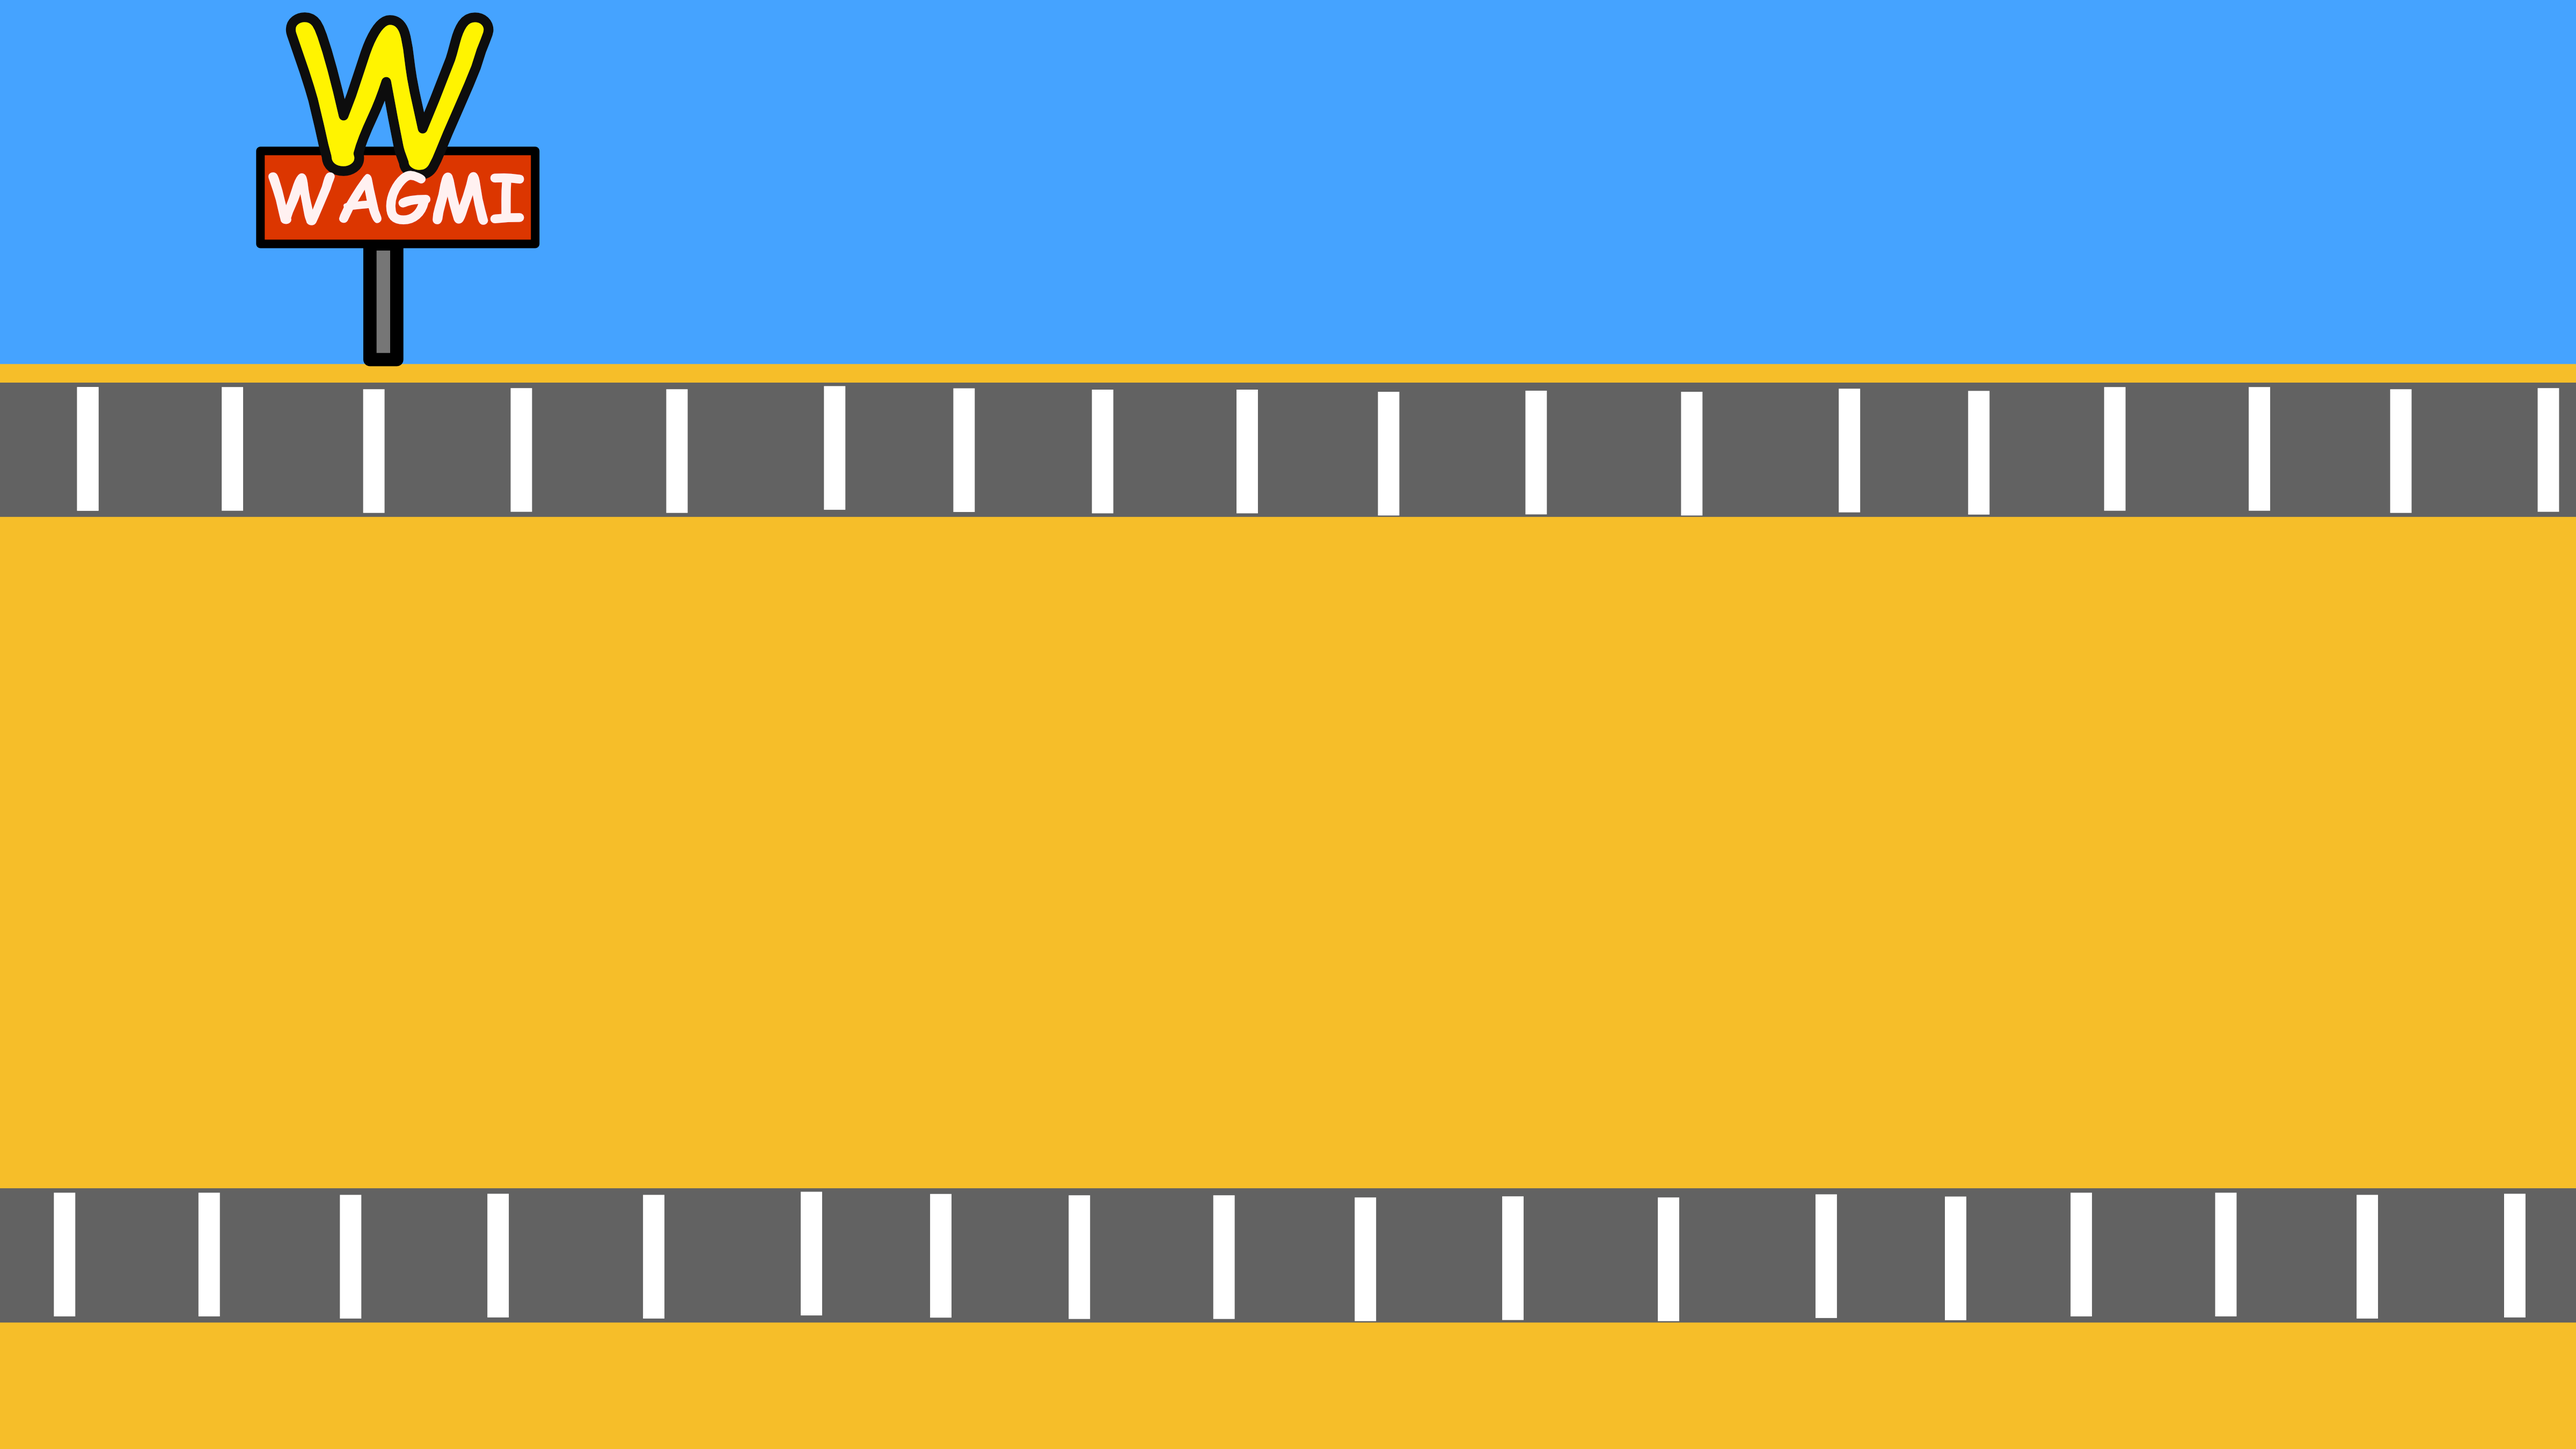
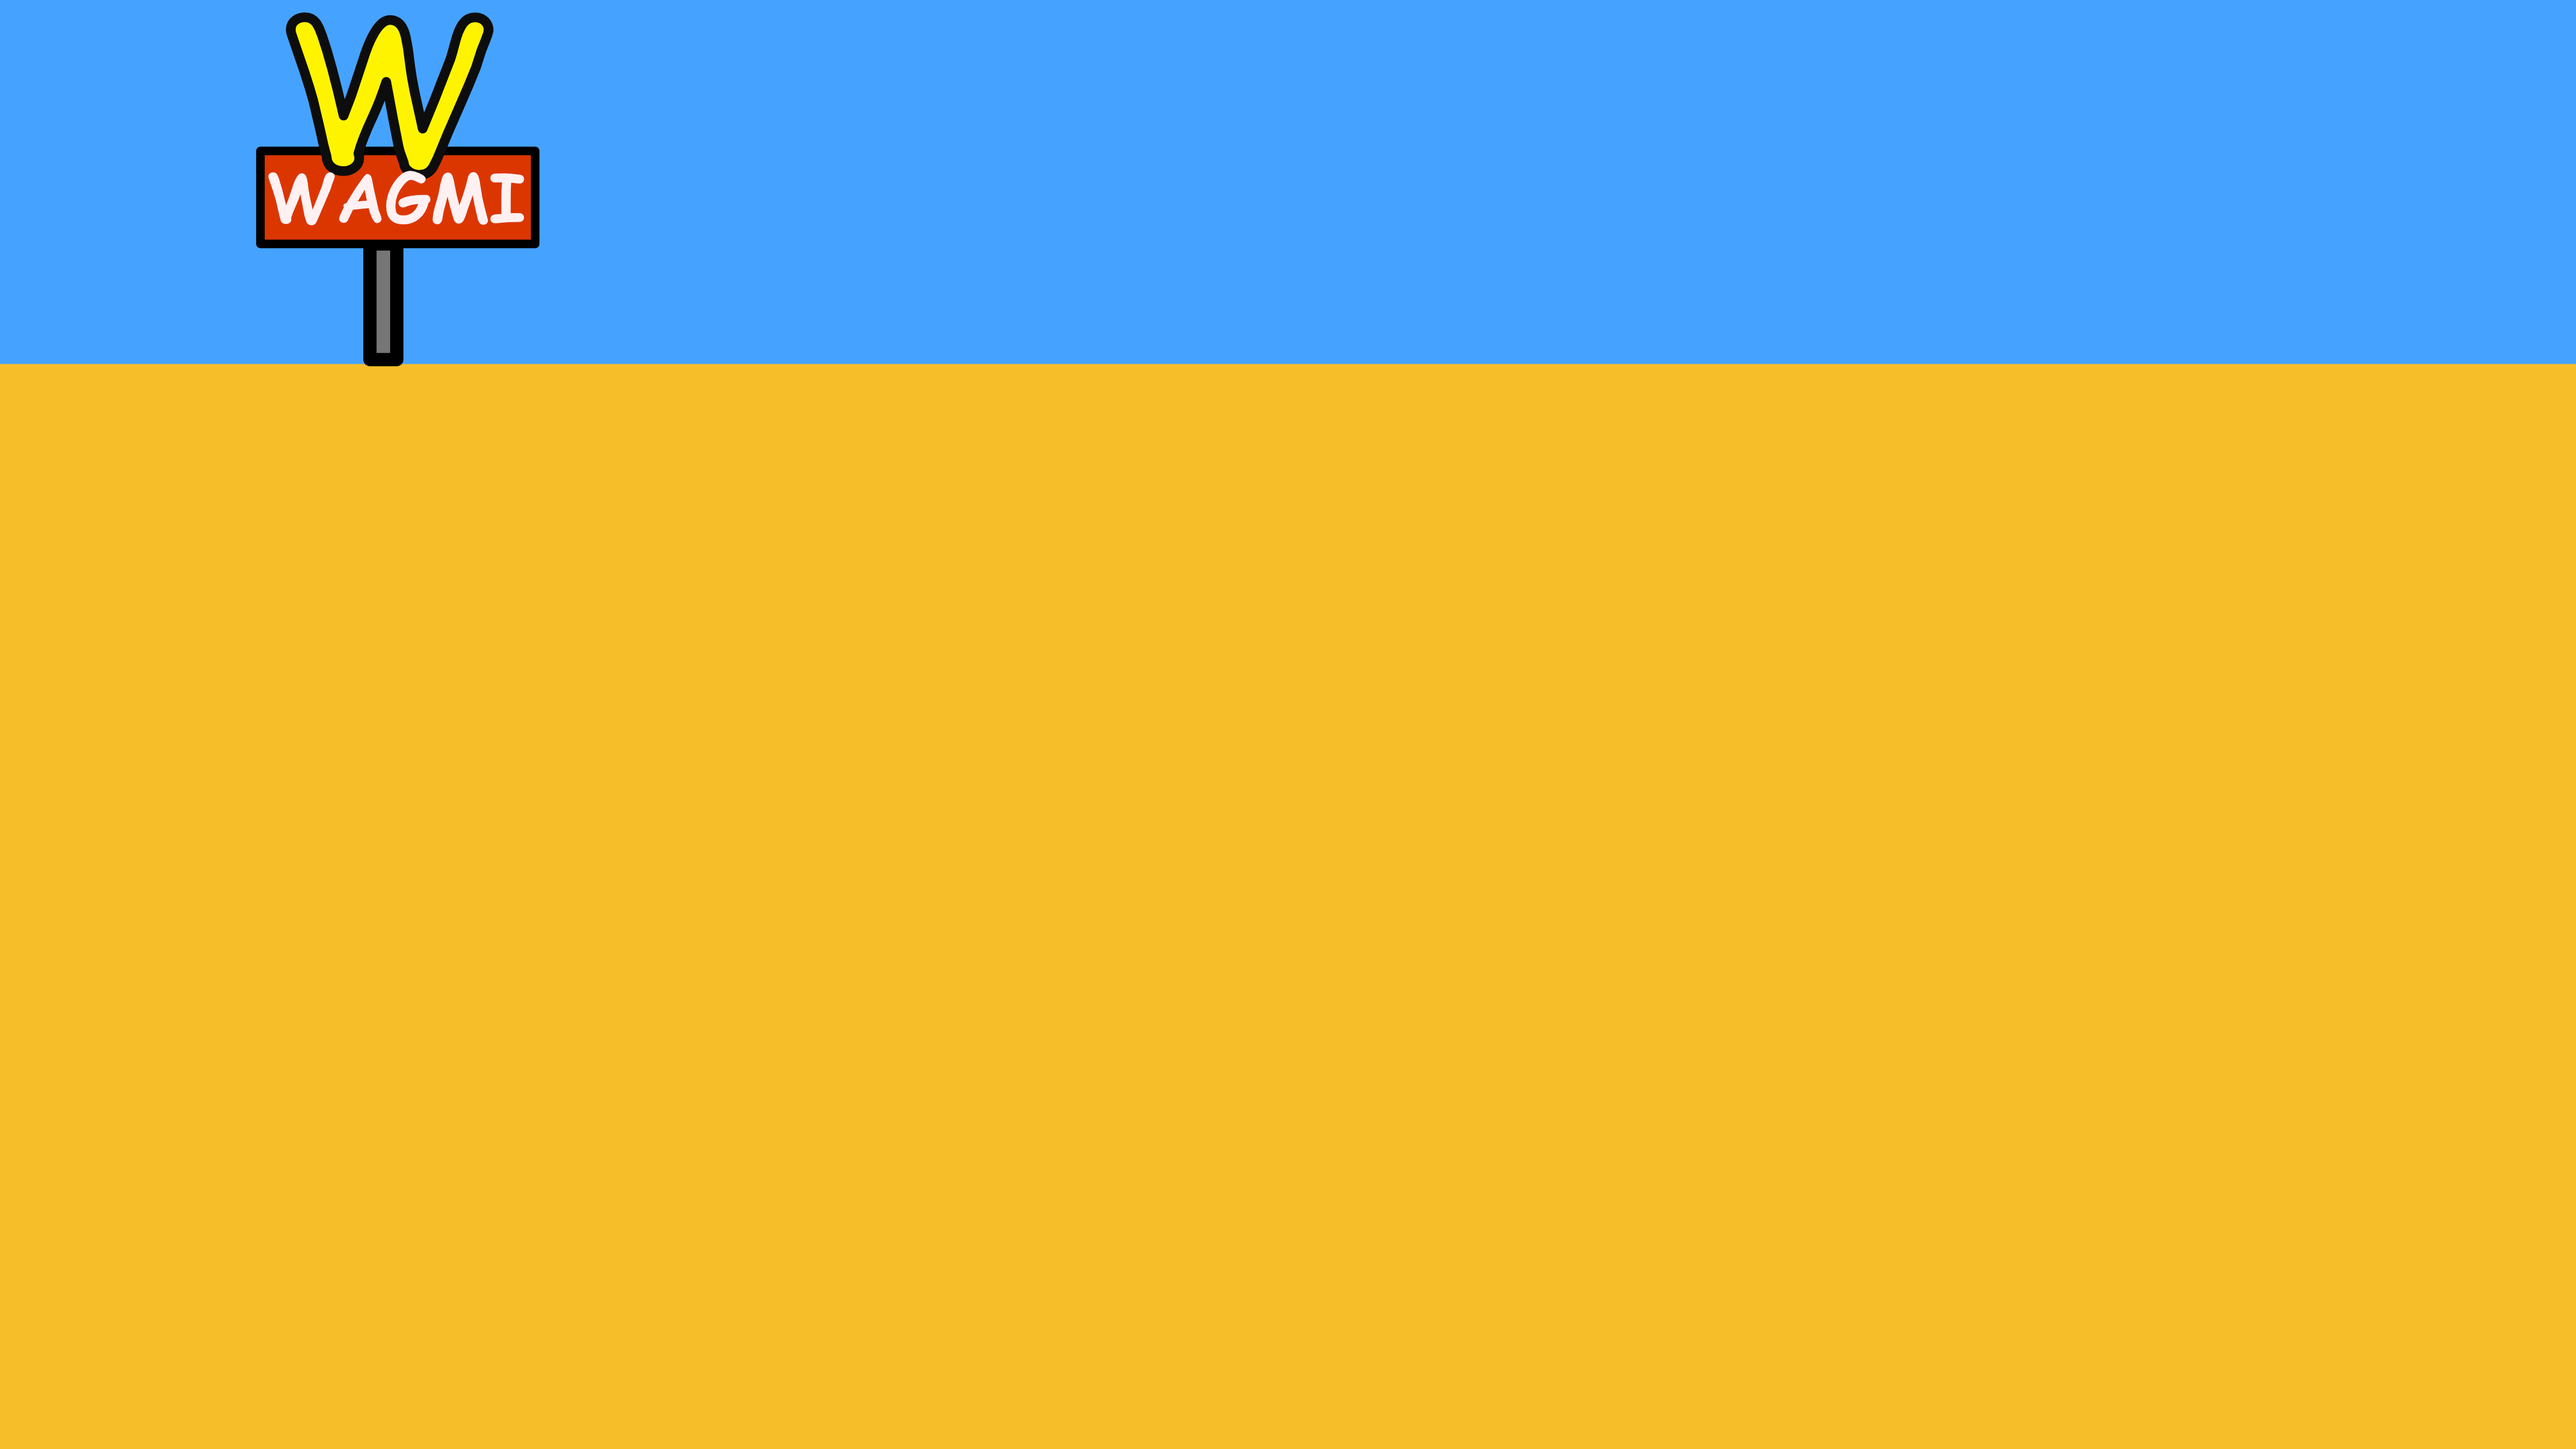
fixed error

Changed region(s): [[0.0, 0.8089, 1.0, 0.9333], [0.0, 0.2489, 1.0, 0.3733]]

diff --git a/game/scenes/game-scene.ts b/game/scenes/game-scene.ts
@@ -1,9 +1,9 @@
 import {
-  LEFT_CHEVRON, BG, CLICK, LOWER_BELT, TRASH
+  LEFT_CHEVRON, BG, CLICK, LOWER_BELT, TRASH, DRINK, FRYER, PREP
 } from 'game/assets';
 import { AavegotchiGameObject } from 'types';
 import { getGameWidth, getGameHeight, getRelative } from '../helpers';
-import { Player, TopFood, BottomFood, Customer, CounterTop } from 'game/objects';
+import { Player, FoodDummy, RedFood, YellowFood, Customer, CounterTop, } from 'game/objects';
 import eventsCenter from 'game/objects/eventsCenter';
 
 const sceneConfig: Phaser.Types.Scenes.SettingsConfig = {
@@ -18,14 +18,17 @@ const sceneConfig: Phaser.Types.Scenes.SettingsConfig = {
 export class GameScene extends Phaser.Scene {
   private player?: Player;
   private selectedGotchi?: AavegotchiGameObject;
-  private topFoodLine?: Phaser.GameObjects.Group
-  private bottomFoodLine?: Phaser.GameObjects.Group
+  //private topFoodLine?: Phaser.GameObjects.Group
+  private FoodDummyLine?: Phaser.GameObjects.Group
+  private RedFoodLine?: Phaser.GameObjects.Group
+  private YellowFoodLine?: Phaser.GameObjects.Group
   private customers?: Phaser.GameObjects.Group
   private counterTops?: Phaser.GameObjects.Group
   private grabKey: Phaser.Input.Keyboard.Key
   private score = 0;
   private scoreText?: Phaser.GameObjects.Text;
   private customerCounterCollider;
+ // private drinkStations?: Phaser.GameObjects.Group
 
   // Sounds
   private back?: Phaser.Sound.BaseSound;
@@ -55,15 +58,23 @@ export class GameScene extends Phaser.Scene {
   // }
 
   private fetchFoodBottom = () => {
-    const foodType = 0
-    const foodSpeed = -1
-
+    const foodType = Math.floor(Math.random() * 3)
+    const foodSpeed = -0.5
     this.loadBeltBottom(foodType, foodSpeed)
   }
 
   private loadBeltBottom = (foodType: number, foodSpeed: number): void => {
-    const food: BottomFood = this.bottomFoodLine?.get()
-    food.activate(foodType, foodSpeed)
+
+    if (foodType === 0) {
+      const food: FoodDummy = this.FoodDummyLine?.get()
+    food.activate(foodSpeed)
+    } else if (foodType === 1) {
+      const food: RedFood = this.RedFoodLine?.get()
+    food.activate(foodSpeed)
+    } else if (foodType === 2) {
+      const food: YellowFood = this.YellowFoodLine?.get()
+    food.activate(foodSpeed)
+    }    
   }
 
   private fetchCustomer = () => {
@@ -90,10 +101,19 @@ export class GameScene extends Phaser.Scene {
     this.trash = this.sound.add(TRASH, { loop: false });
     this.createBackButton();
 
-    const lowerBelt = this.add.sprite(getGameWidth(this) * 0.5 , getGameHeight(this) * 0.82 + getGameHeight(this) * 0.1875, LOWER_BELT).setDisplaySize(getGameWidth(this) *1.5, getGameHeight(this) * 0.4).setVisible(true).setDepth(0.25)
+    const drinkStation = this.add.sprite(getGameWidth(this) * 0.25, getGameHeight(this) * 0.375, DRINK).setDisplaySize(getGameWidth(this) * 0.09375, getGameHeight(this) * 0.25).setVisible(true)
+    this.physics.add.existing(drinkStation, true)
+
+    const fryerStation = this.add.sprite(getGameWidth(this) * 0.5, getGameHeight(this) * 0.375, FRYER).setDisplaySize(getGameWidth(this) * 0.125, getGameHeight(this) * 0.25).setVisible(true)
+    this.physics.add.existing(fryerStation, true)
+
+    const prepStation = this.add.sprite(getGameWidth(this) * 0.75, getGameHeight(this) * 0.375, PREP).setDisplaySize(getGameWidth(this) * 0.125, getGameHeight(this) * 0.25).setVisible(true)
+    this.physics.add.existing(prepStation, true)
+
+    const lowerBelt = this.add.sprite(getGameWidth(this) * 0.5 , getGameHeight(this) * 0.9375, LOWER_BELT).setDisplaySize(getGameWidth(this) * 1.5, getGameHeight(this) * 0.2).setVisible(true).setDepth(0.25)
     this.physics.add.existing(lowerBelt, true)
 
-    const floor = this.add.rectangle(0, getGameHeight(this) * 0.9).setDisplaySize(getGameWidth(this), 50).setOrigin(0, 0)
+    const floor = this.add.rectangle(0, getGameHeight(this) * 0.875).setDisplaySize(getGameWidth(this), 50).setOrigin(0, 0)
     this.physics.add.existing(floor, true)
 
     const leftWall = this.add.rectangle(-100, -getGameHeight(this) * 40, 0x000000).setDisplaySize(50, getGameHeight(this) * 50,).setOrigin(0, 0)
@@ -120,9 +140,21 @@ export class GameScene extends Phaser.Scene {
     //   loop: true
     // })
 
-    this.bottomFoodLine = this.add.group({
+    this.FoodDummyLine = this.add.group({
       maxSize: 300,
-      classType: BottomFood,
+      classType: FoodDummy, 
+      runChildUpdate: true,
+    })
+
+    this.RedFoodLine = this.add.group({
+      maxSize: 300,
+      classType: RedFood, 
+      runChildUpdate: true,
+    })
+
+    this.YellowFoodLine = this.add.group({
+      maxSize: 300,
+      classType: YellowFood, 
       runChildUpdate: true,
     })
 
@@ -158,6 +190,16 @@ export class GameScene extends Phaser.Scene {
     const rightCounterTop: CounterTop = this.counterTops?.get();
     rightCounterTop.activate(1);
 
+    // this.drinkStations = this.add.group({
+    //   maxSize: 500,
+    //   classType: DrinkStation,
+    //   runChildUpdate: true,
+    // })
+
+    // const Drink: DrinkStation = this.drinkStations?.get();
+    // Drink.activate(0);
+
+
     // Add a player sprite that can be moved around.
     this.player = new Player({
       scene: this,
@@ -172,13 +214,16 @@ export class GameScene extends Phaser.Scene {
     this.physics.add.collider(leftWall, this.player);
     this.physics.add.collider(rightWall, this.player);
     this.physics.add.collider(ceiling, this.player);
+    this.physics.add.collider(drinkStation, this.player);
+    this.physics.add.collider(fryerStation, this.player);
+    this.physics.add.collider(prepStation, this.player);
 
     this.physics.add.collider(this.player, this.counterTops);
     this.customerCounterCollider = this.physics.add.collider(this.customers, this.counterTops, (_, CounterTop) => { (_ as Customer).deskCollision(); });
     this.physics.add.collider(this.customers, this.customers);
 
    // this.physics.add.overlap(this.player, this.topFoodLine, (_, TopFood) => { this.foodInteractTop(TopFood) });
-    this.physics.add.overlap(this.player, this.bottomFoodLine, (_, BottomFood) => { this.foodInteractBottom(BottomFood) });
+   // this.physics.add.overlap(this.player, this.bottomFoodLine, (_, BottomFood) => { this.foodInteractBottom(BottomFood) });
 
     eventsCenter.on('gameOver', this.gameOver, this);
   }

diff --git a/game/assets/index.tsx b/game/assets/index.tsx
@@ -27,6 +27,9 @@ export const YELLOW_DUMMY = 'dummyYellow'
 export const RED_DUMMY = 'dummyRed'
 export const CUSTOMER_COMMONROFL = 'commonRofl'
 export const MCWAGIE_COUNTER = 'mcwagieCounter'
+export const FRYER = 'fryer'
+export const PREP = 'prep'
+export const DRINK = 'drink'
 
 
 // Save all in game assets in the public folder
@@ -52,7 +55,7 @@ export const assets: Array<Asset | SpritesheetAsset> = [
     type: 'SPRITESHEET',
     data: {
       frameHeight: 775,
-      frameWidth: 4800,
+      frameWidth: 9600,
     }
   },
   {
@@ -103,6 +106,33 @@ export const assets: Array<Asset | SpritesheetAsset> = [
     data: {
       frameHeight: 128,
       frameWidth: 350,
+    }
+  },
+  {
+    key: FRYER,
+    src: 'assets/images/fryer.png',
+    type: 'SPRITESHEET',
+    data: {
+     frameHeight: 1150,
+      frameWidth: 1280,
+    }
+  },
+  {
+    key: PREP,
+    src: 'assets/images/prep.png',
+    type: 'SPRITESHEET',
+    data: {
+     frameHeight: 1120,
+      frameWidth: 1280,
+    }
+  },
+  {
+    key: DRINK,
+    src: 'assets/images/drink.png',
+    type: 'SPRITESHEET',
+    data: {
+     frameHeight: 1130,
+      frameWidth: 740,
     }
   },
 ];

diff --git a/game/objects/yellowFood.ts b/game/objects/yellowFood.ts
@@ -1,0 +1,27 @@
+import { getGameHeight, getGameWidth } from "game/helpers";
+import { YELLOW_DUMMY } from "game/assets";
+
+export class YellowFood extends Phaser.GameObjects.Sprite {
+    constructor(scene: Phaser.Scene) {
+        super(scene, -100, -100, YELLOW_DUMMY, 0)
+        this.setOrigin(0, 0)
+    }
+
+    public activate = (foodSpeed: number) => {
+        this.scene.physics.world.enable(this);
+
+        (this.body as Phaser.Physics.Arcade.Body).setVelocityX(foodSpeed * getGameWidth(this.scene) * 0.3)
+        this.setPosition(getGameWidth(this.scene), getGameHeight(this.scene) * 0.81)
+
+        this.displayHeight = getGameHeight(this.scene) * 0.125
+        this.displayWidth = getGameWidth(this.scene) * 0.1
+        this.setDepth(0.3125)
+    }
+
+    public update = () => {
+        if (this.x < -2 ) {
+            (this.body as Phaser.Physics.Arcade.Body).destroy()
+            this.setVisible(false)
+        }
+    }
+}

diff --git a/game/objects/redFood.ts b/game/objects/redFood.ts
@@ -1,0 +1,27 @@
+import { getGameHeight, getGameWidth } from "game/helpers";
+import { RED_DUMMY } from "game/assets";
+
+export class RedFood extends Phaser.GameObjects.Sprite {
+    constructor(scene: Phaser.Scene) {
+        super(scene, -100, -100, RED_DUMMY, 0)
+        this.setOrigin(0, 0)
+    }
+
+    public activate = (foodSpeed: number) => {
+        this.scene.physics.world.enable(this);
+
+        (this.body as Phaser.Physics.Arcade.Body).setVelocityX(foodSpeed * getGameWidth(this.scene) * 0.3)
+        this.setPosition(getGameWidth(this.scene), getGameHeight(this.scene) * 0.81)
+
+        this.displayHeight = getGameHeight(this.scene) * 0.125
+        this.displayWidth = getGameWidth(this.scene) * 0.1
+        this.setDepth(0.3125)
+    }
+
+    public update = () => {
+        if (this.x < -2 ) {
+            (this.body as Phaser.Physics.Arcade.Body).destroy()
+            this.setVisible(false)
+        }
+    }
+}

diff --git a/game/objects/foodDummy.ts b/game/objects/foodDummy.ts
@@ -1,13 +1,13 @@
 import { getGameHeight, getGameWidth } from "game/helpers";
 import { FOOD_DUMMY } from "game/assets";
 
-export class BottomFood extends Phaser.GameObjects.Sprite {
+export class FoodDummy extends Phaser.GameObjects.Sprite {
     constructor(scene: Phaser.Scene) {
         super(scene, -100, -100, FOOD_DUMMY, 0)
         this.setOrigin(0, 0)
     }
 
-    public activate = (foodType: number, foodSpeed: number) => {
+    public activate = (foodSpeed: number) => {
         this.scene.physics.world.enable(this);
 
         (this.body as Phaser.Physics.Arcade.Body).setVelocityX(foodSpeed * getGameWidth(this.scene) * 0.3)

diff --git a/game/objects/index.ts b/game/objects/index.ts
@@ -5,4 +5,4 @@ export * from './redFood';
 export * from './yellowFood';
 export * from './customer';
 export * from './counterTop';
-export * from './drinkStation'
+//export * from './drinkStation'
